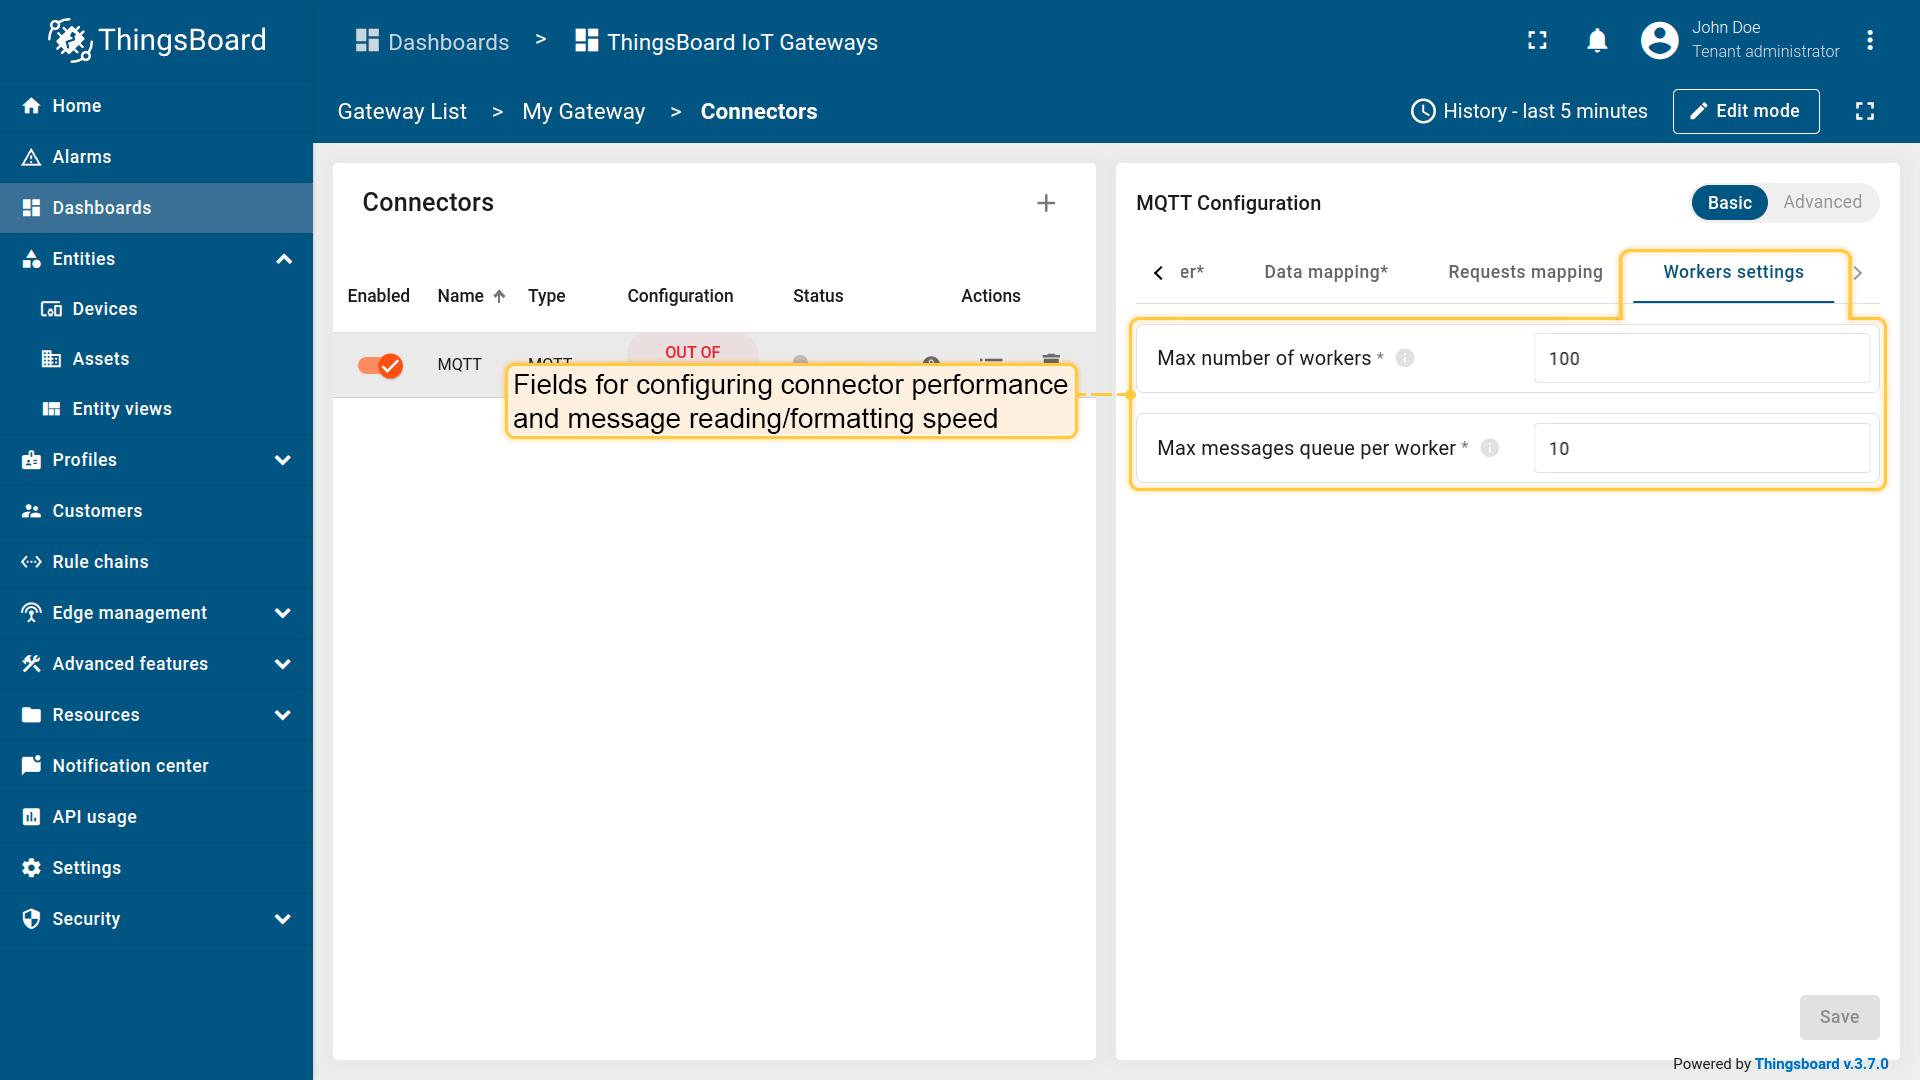
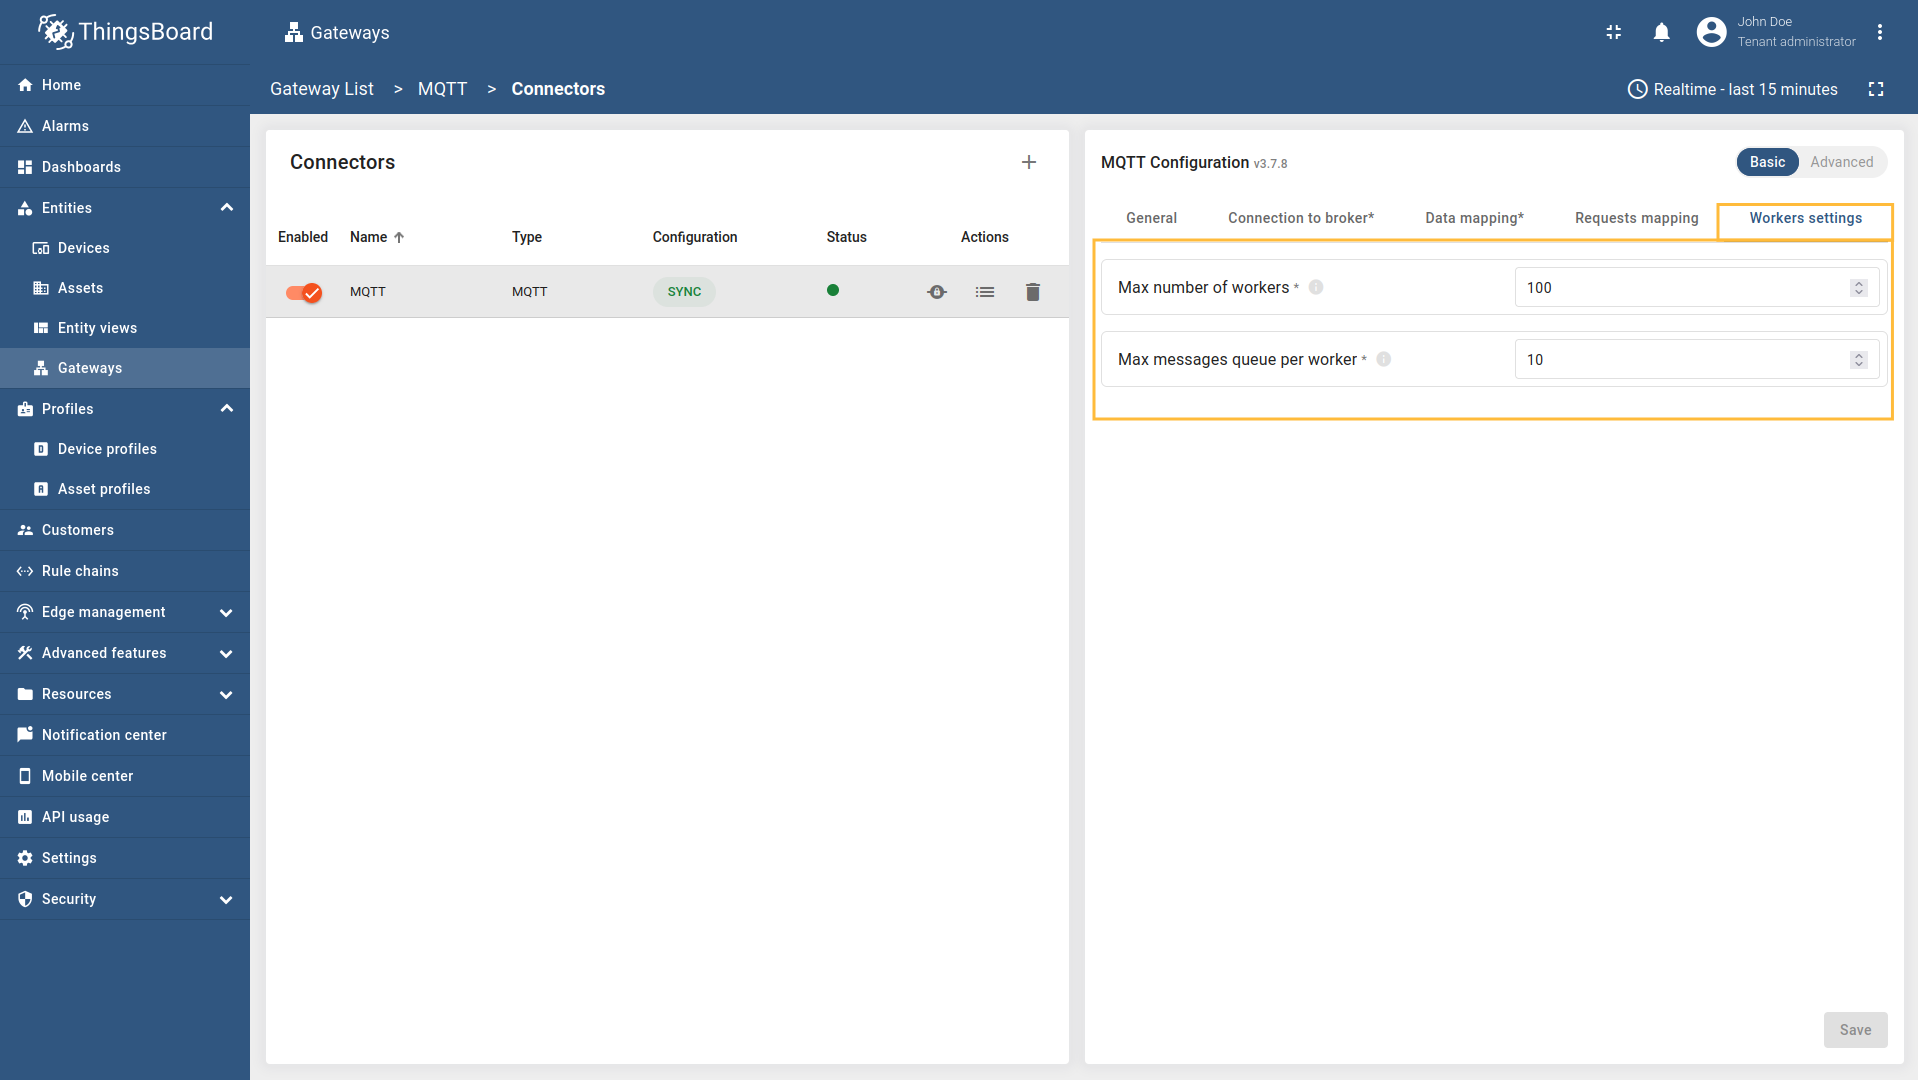
update worker settings for mqtt documentation.

diff --git a/docs/iot-gateway/config/mqtt.md b/docs/iot-gateway/config/mqtt.md
@@ -426,13 +426,7 @@ Example of the server configuration:
 
 This configuration settings provides fields for configuring connector performance and message reading/formatting speed:
 
-Select basic or advanced MQTT configuration:
-
-{% capture mqttattributerequestsubsection %}
-Basic<small></small>%,%basic%,%templates/iot-gateway/mqtt-connector/workers-settings-section-basic.md%br%
-Advanced<small></small>%,%advanced%,%templates/iot-gateway/mqtt-connector/workers-settings-section-advanced.md{% endcapture %}
-
-{% include content-toggle.liquid content-toggle-id="mqttattributerequestsubsection" toggle-spec=mqttattributerequestsubsection %}
+{% include /templates/iot-gateway/mqtt-connector/workers-settings-section-basic.md %}
 
 ## Additional information
 
@@ -440,9 +434,14 @@ Advanced<small></small>%,%advanced%,%templates/iot-gateway/mqtt-connector/worker
 
 ### MQTT Parameter Version Differences
 
-1. **broker.cleanSession** - *MQTT 3.1, 3.11 only*; in *MQTT 5.0* it’s replaced by **broker.cleanStart** (on connect behavior) plus **broker.sessionExpiryInterval** (how long the session is kept after disconnect).
-2. **broker.sessionExpiryInterval** — *MQTT 5.0 only*; if it is `0` drop session on disconnect, if it is bigger than `0`keep it for that many seconds.
-3. **broker.cleanStart** — *MQTT 5.0 only*; controls what happens at connect: `true` discards any previous session, `false` tries to resume it.
+1. **broker.cleanSession** 
+*MQTT 3.1, 3.11 only*; in *MQTT 5.0* it’s replaced by **broker.cleanStart** (on connect behavior) plus **broker.sessionExpiryInterval** (how long the session is kept after disconnect).
+
+2. **broker.sessionExpiryInterval**
+*MQTT 5.0 only*; if it is `0` drop session on disconnect, if it is bigger than `0`keep it for that many seconds.
+
+3. **broker.cleanStart**
+*MQTT 5.0 only*; controls what happens at connect: `true` discards any previous session, `false` tries to resume it.
 
 ## Next steps
 

diff --git a/_includes/templates/iot-gateway/mqtt-connector/workers-settings-section-basic.md b/_includes/templates/iot-gateway/mqtt-connector/workers-settings-section-basic.md
@@ -1,5 +1,9 @@
 ![image](/images/gateway/mqtt-connector/workers-settings-1-ce.png)
 
-**Max number of workers** is a maximal number of workers thread for converters (amount of workers changes dynamically, depending on load). Recommended amount 50-100.
+1. **broker.maxMessageNumberPerWorker**
+How many MQTT messages one worker handles in a single turn before letting others run. 
+Bigger number = higher throughput; smaller = lower latency. Example: ~100 for heavy telemetry, ~10–20 for fast RPC.
 
-**Max messages queue per worker** is a maximal messages count that will be in queue for each converter worker.
+2. **broker.maxNumberOfWorkers**
+How many workers run at the same time. More workers use more CPU cores but can cause contention if too high. 
+Start near your CPU core count and tweak based on backlog and CPU.
